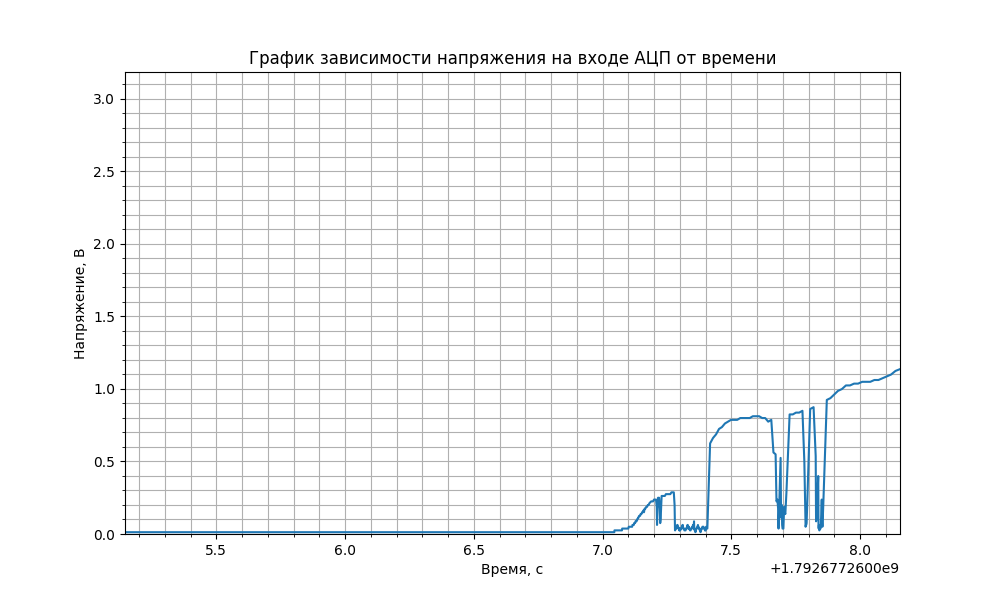
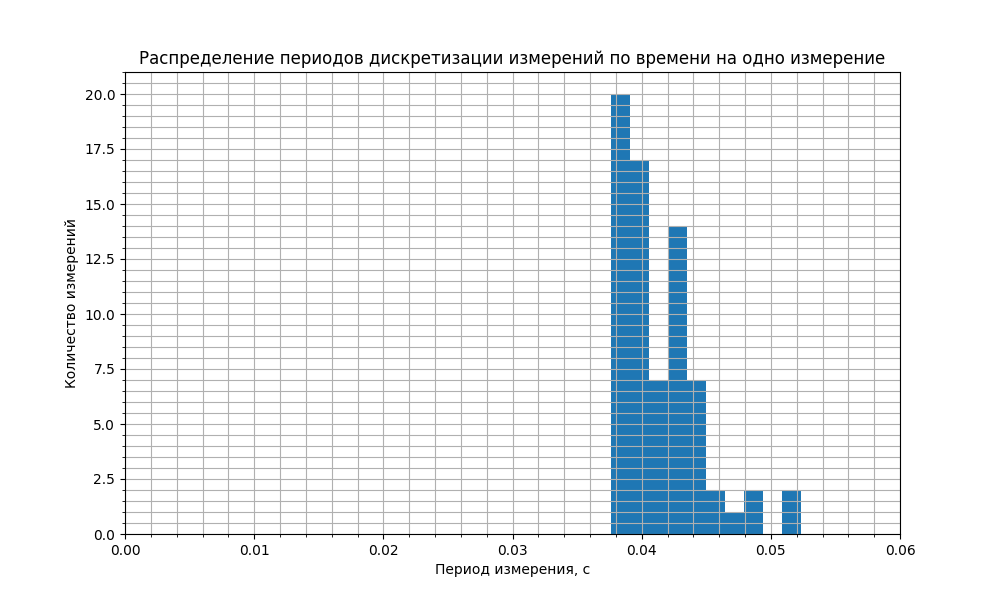
Новое задание

Changed region(s): [[0.062, 0.09, 0.93, 0.96]]

diff --git a/get-adc/r2r_sar.py b/get-adc/r2r_sar.py
@@ -12,11 +12,12 @@ duration = 3.0
 try:
     time_start = time.time()
     while time.time() - time_start < duration:
-        v = adc.get_sar_voltage()
+        v = adc.get_sc_voltage()
         t = time.time()
         times += [t]
         voltages += [v]
     plott.plot_voltage_vs_time(times, voltages, max_voltage)
     plott.plot_sampling_period_hist(times)
 finally:
-    adc.deinit()
+    adc.__del__()
+   

diff --git a/get-adc/mcp.py b/get-adc/mcp.py
@@ -19,4 +19,5 @@ try:
     plott.plot_voltage_vs_time(times, voltages, max_voltage)
     plott.plot_sampling_period_hist(times)
 finally:
-    adc.deinit()
+        adc.__del__()
+    

diff --git a/get-adc/mcp3021_driver.py b/get-adc/mcp3021_driver.py
@@ -34,4 +34,4 @@ if __name__ == "__main__":
             time.sleep(1)
         
     finally:
-        adc.deinit()
+        adc.__del__()
